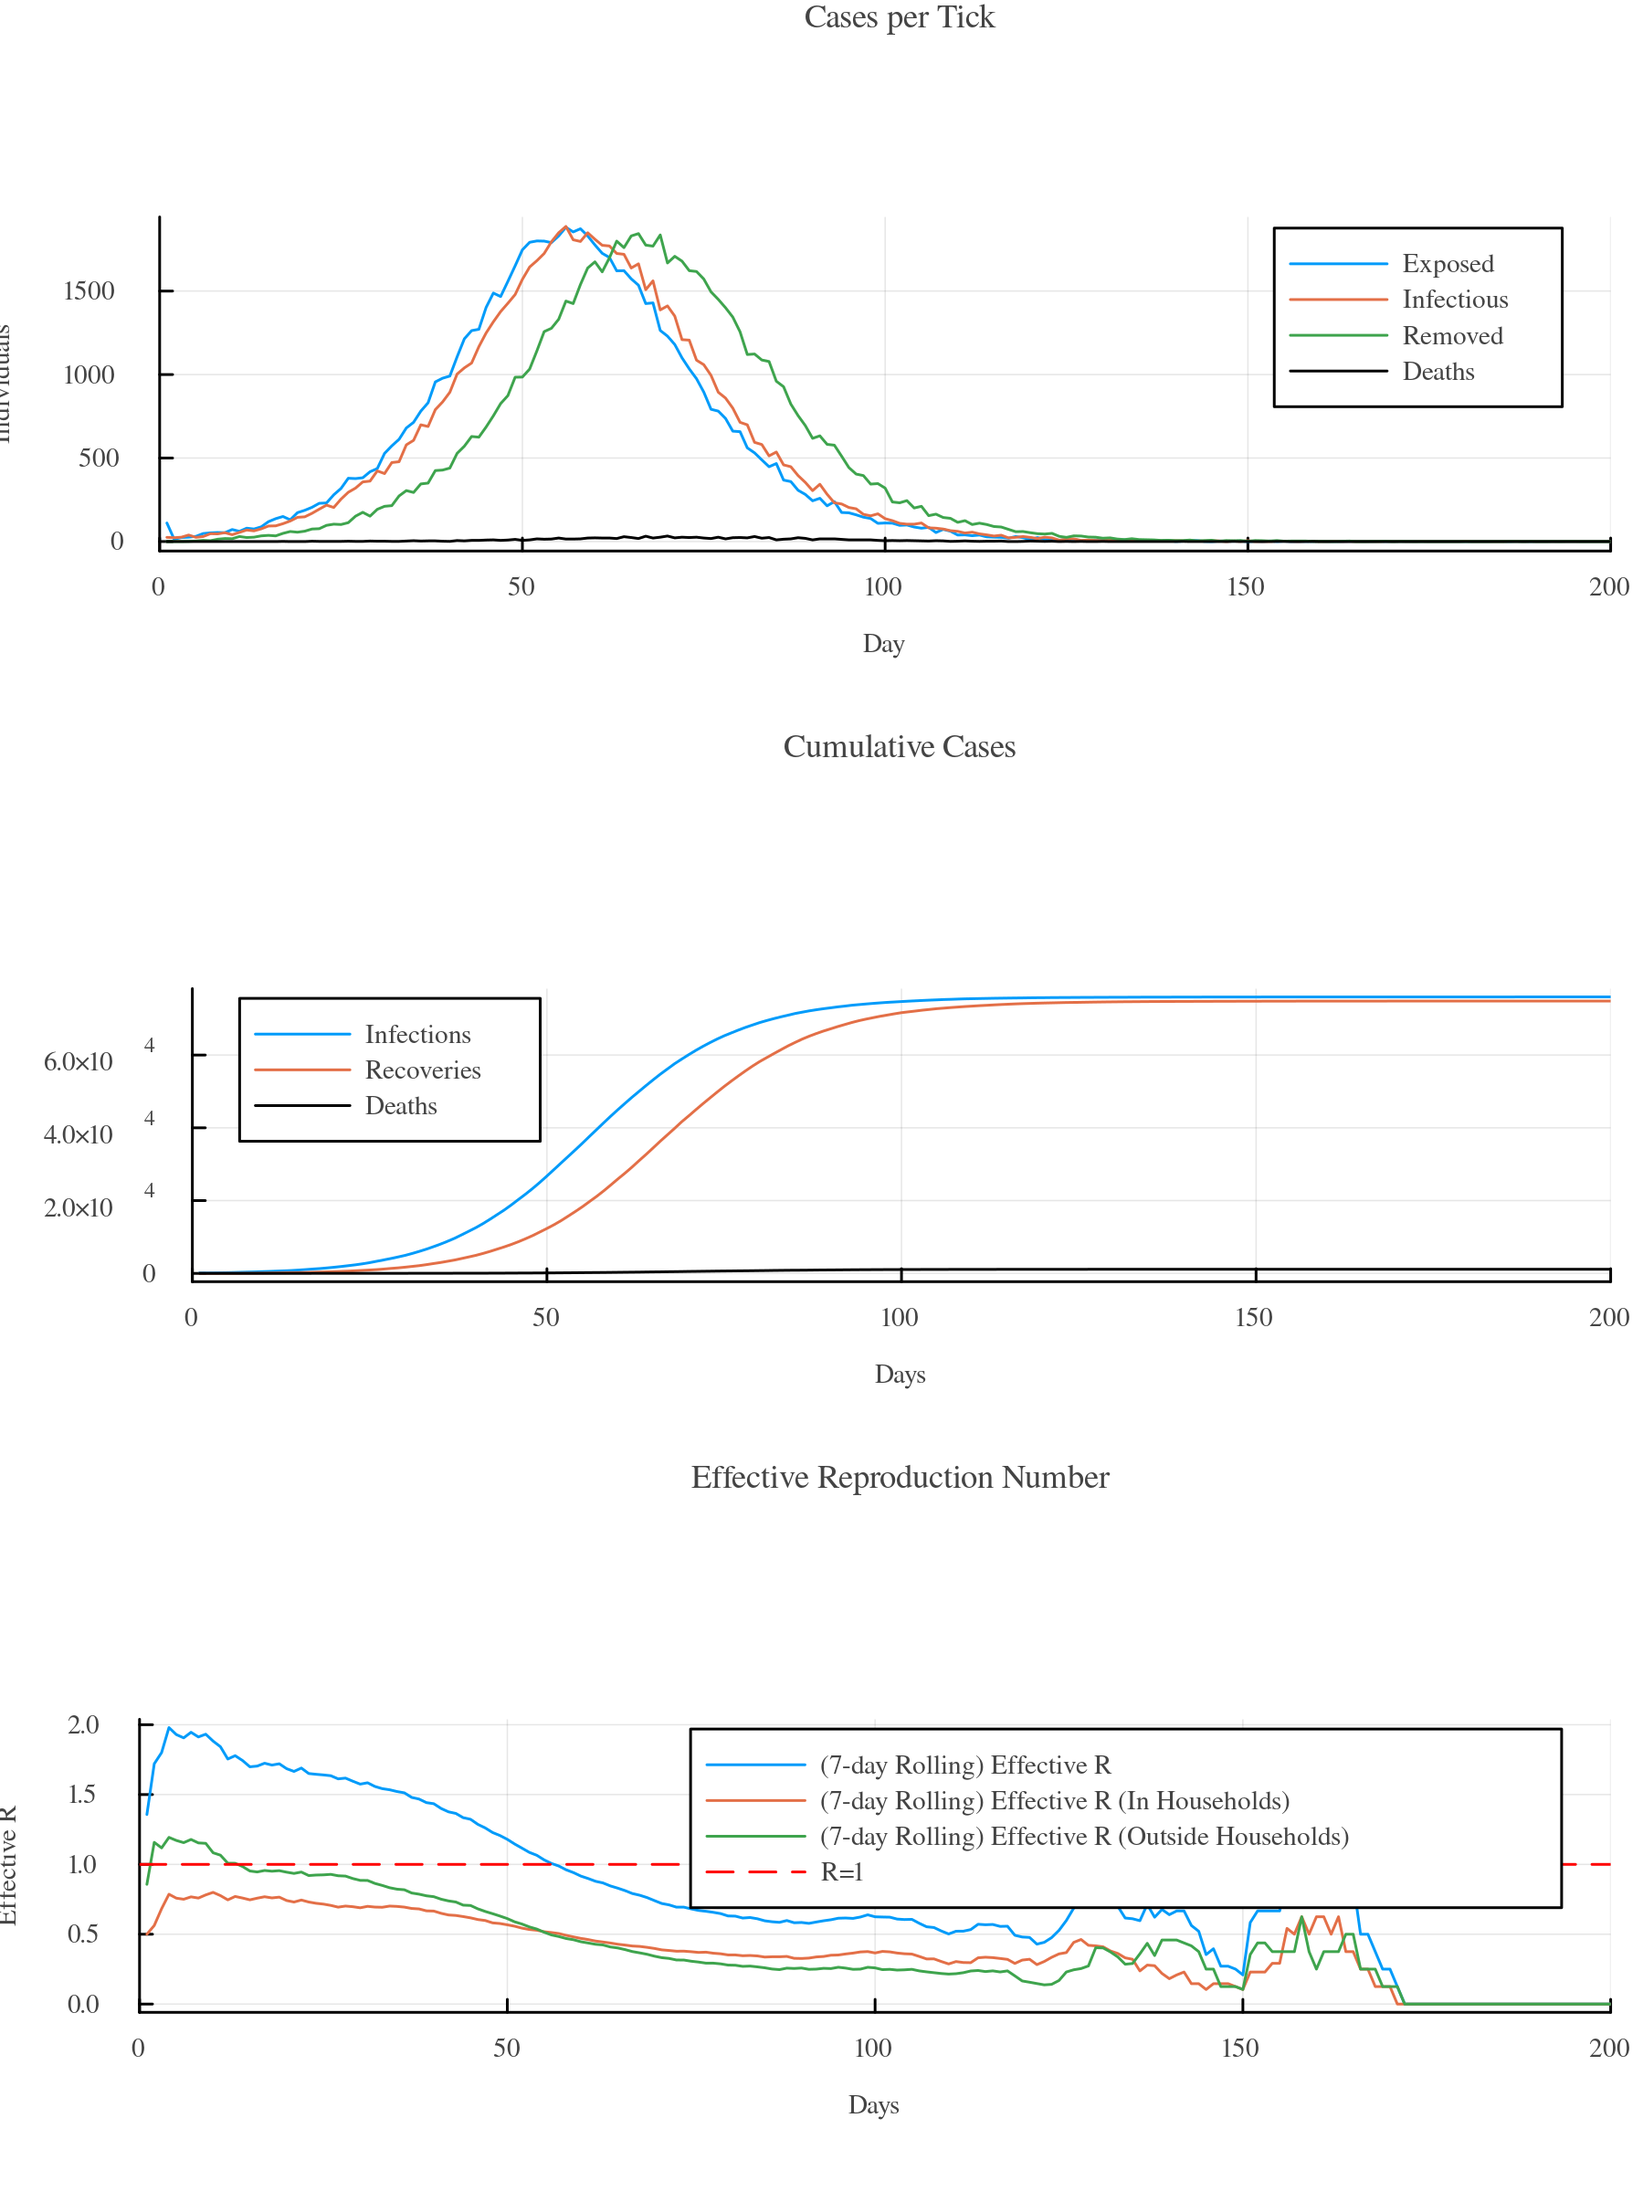
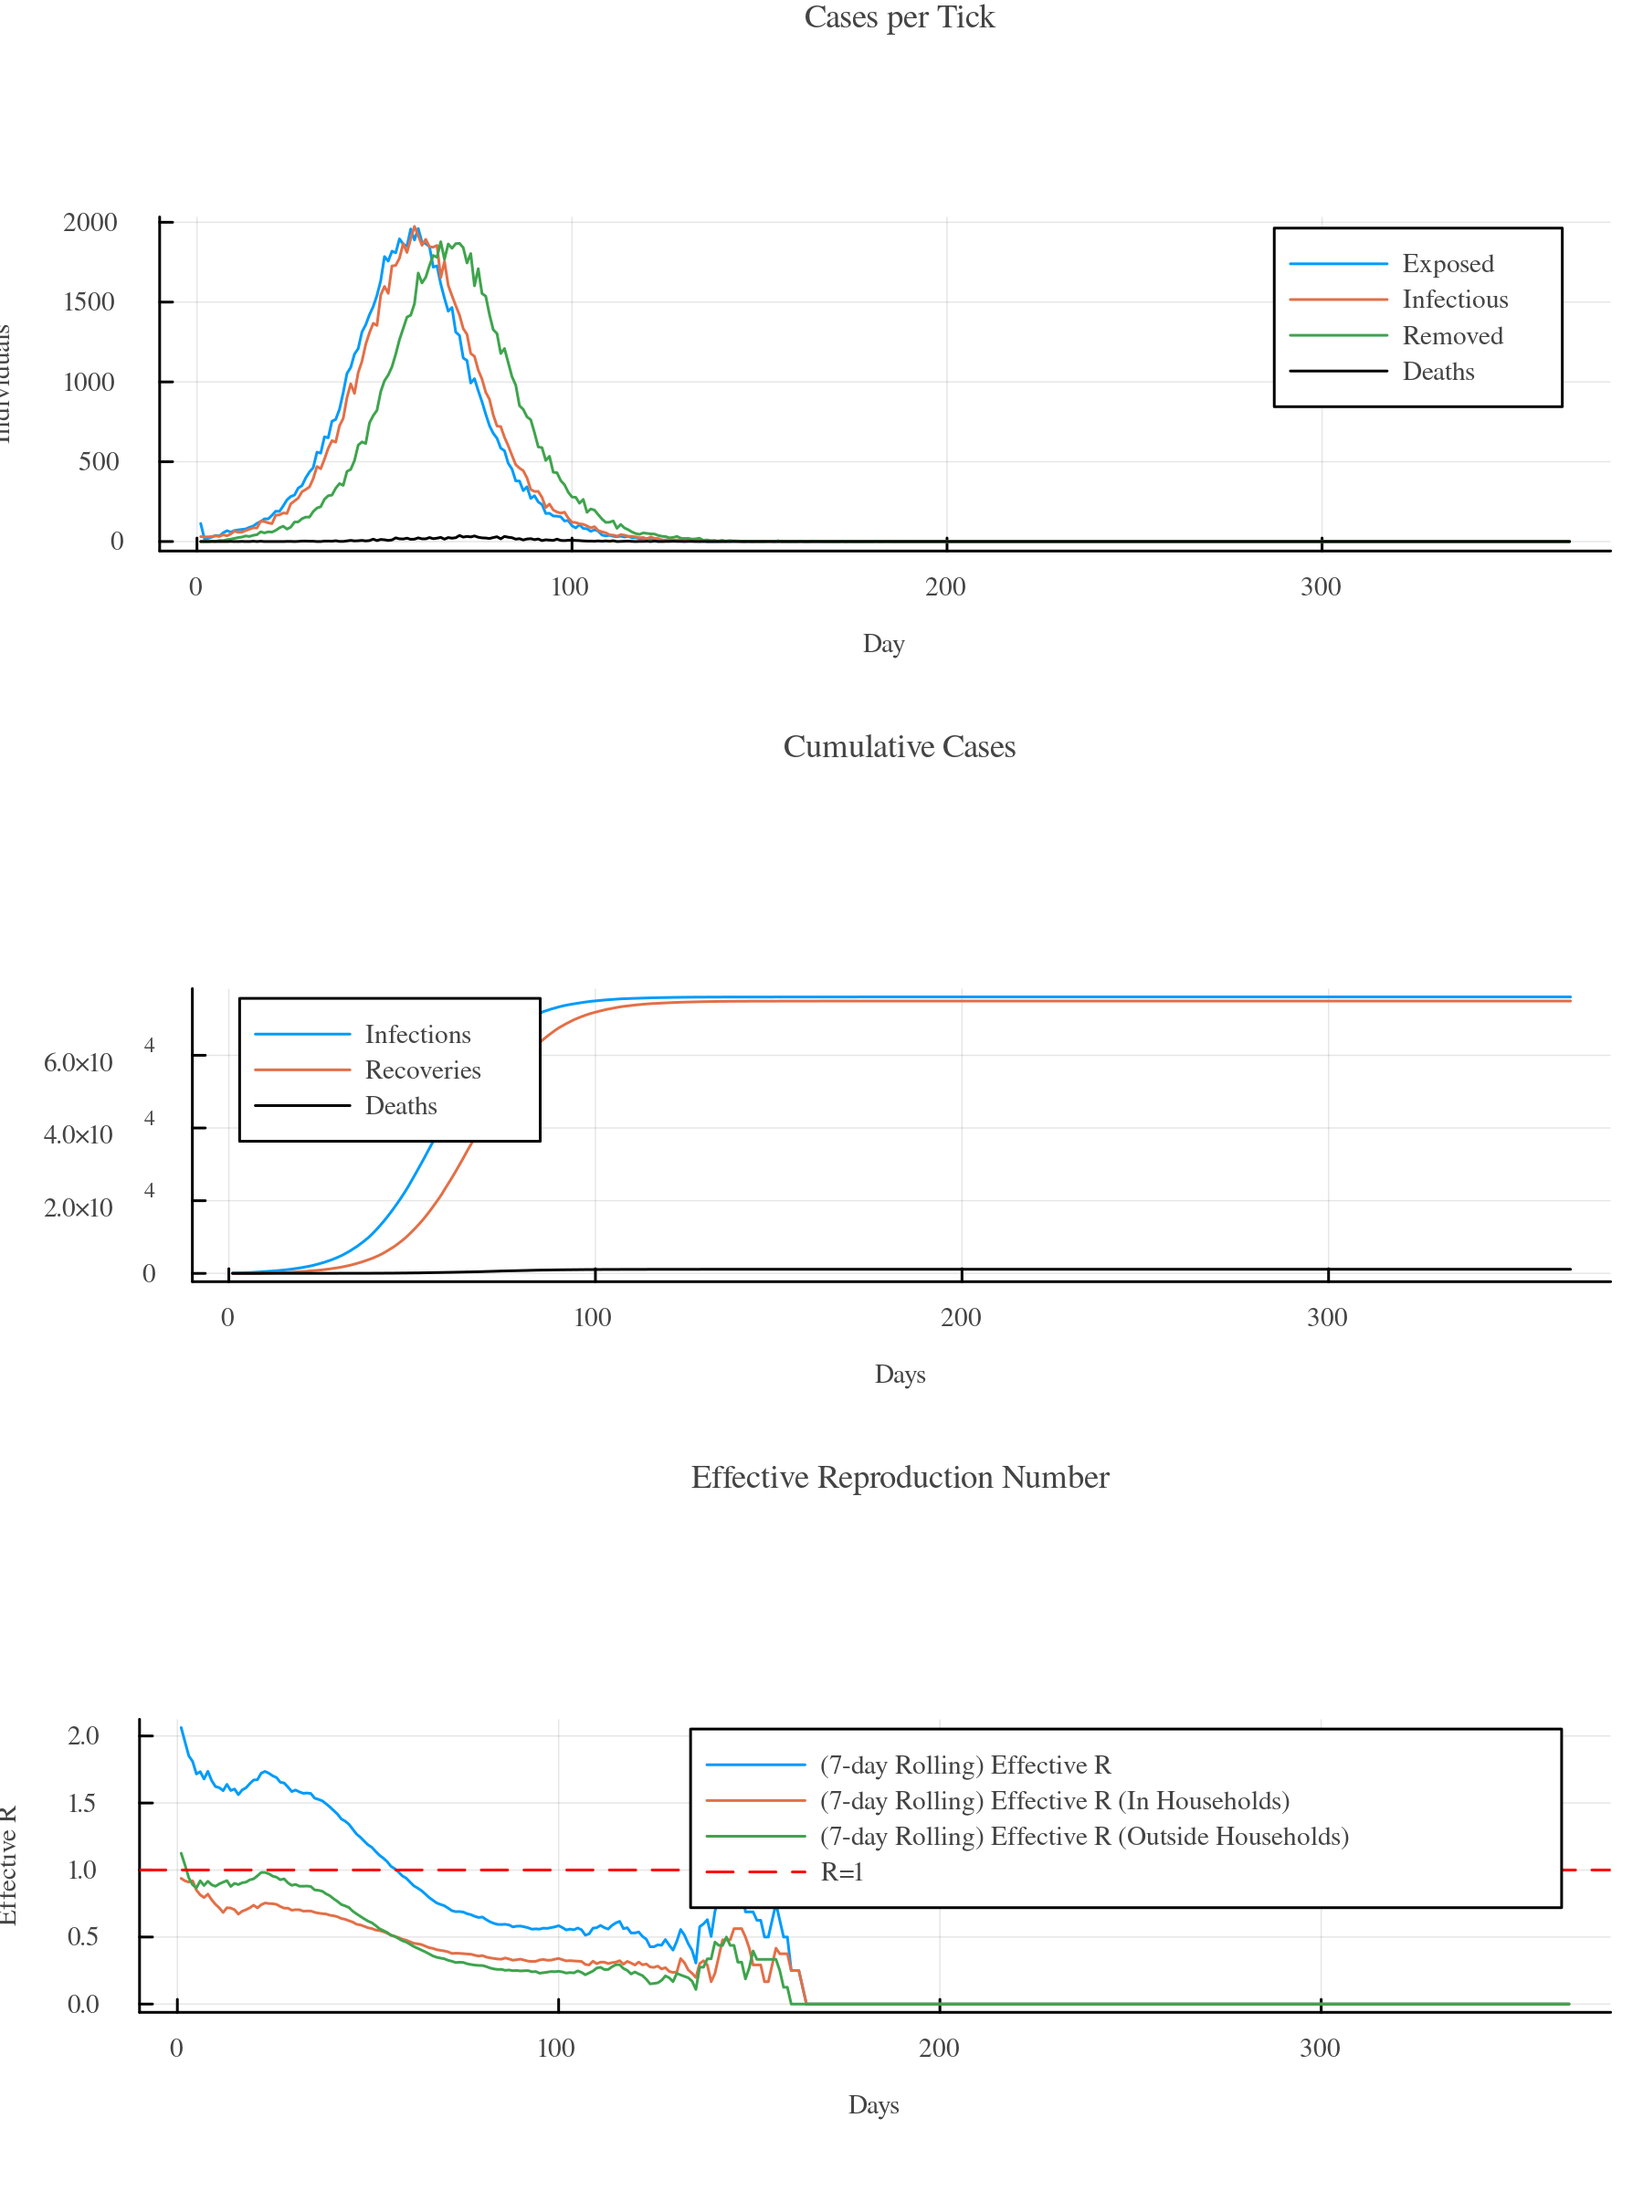
console output and plots in getting started tutorials

diff --git a/docs/src/tut_gettingstarted.md b/docs/src/tut_gettingstarted.md
@@ -31,9 +31,19 @@ rd = ResultData(sim)
 gemsplot(rd)
 ```
 
-!!! warning "TODO: PUT CONSOLE OUTPUT HERE"
+**Output**
+[ Info: 12:09:42 | Initializing Simulation [Simulation 0] with default configuration and one custom parameter.
+[ Info: 12:09:42 | └ Creating population
+[ Info: 12:09:43 | └ Creating simulation object
+[ Info: 12:09:43 | Running Simulation Simulation 0
+100.0%┣██████████████████████████████████████████████████████████████████████████████┫ 365 days/365 days [00:18<00:00, 20 days/s][ Info: 12:10:02 | Processing simulation data
+        12:10:08 | └ Done  
 
-!!! warning "TODO: PUT PLOT HERE AS IMAGE"
+```@raw html
+<p align="center">
+    <img src="../assets/tutorials/tut_gs_hello-world.png" width="80%"/>
+</p>
+``` 
 
 
 ## Changing Parameters
@@ -49,9 +59,18 @@ rd = ResultData(sim)
 gemsplot(rd)
 ```
 
-!!! warning "TODO: PUT CONSOLE OUTPUT HERE"
+[ Info: 12:02:08 | Initializing Simulation [Simulation 1] with default configuration and custom parameters.
+[ Info: 12:02:08 | └ Creating population
+[ Info: 12:02:09 | └ Creating simulation object
+[ Info: 12:02:10 | Running Simulation Simulation 1
+100.0%┣██████████████████████████████████████████████████████████████████████████████┫ 365 days/365 days [00:16<00:00, 23 days/s][ Info: 12:02:26 | Processing simulation data
+        12:02:36 | └ Done   
 
-!!! warning "TODO: PUT PLOT HERE AS IMAGE"
+```@raw html
+<p align="center">
+    <img src="../assets/tutorials/tut_gs_custom-parameters.png" width="80%"/>
+</p>
+``` 
 
 !!! info "Where's the list of parameters I can change?"
     Put a `?` into the Julia REPL and call `help?> Simulation` to get an overview of arguments that you can pass to customize a simulation or look up the Simulation section of the API documentation.
@@ -88,9 +107,26 @@ rd2 = ResultData(sim2)
 gemsplot([rd1, rd2])
 ```
 
-!!! warning "TODO: PUT CONSOLE OUTPUT HERE"
+**Output**
 
-!!! warning "TODO: PUT PLOT HERE AS IMAGE"
+[ Info: 12:11:49 | Initializing Simulation [Baseline] with default configuration and one custom parameter.
+[ Info: 12:11:49 | └ Creating population
+[ Info: 12:11:51 | └ Creating simulation object
+[ Info: 12:11:51 | Initializing Simulation [More Infectious] with default configuration and custom parameters.
+[ Info: 12:11:51 | └ Creating population
+[ Info: 12:11:53 | └ Creating simulation object
+[ Info: 12:11:55 | Running Simulation Baseline
+100.0%┣███████████████████████████████████████████████████████████████████████████████┫ 365 days/365 days [00:40<00:00, 9 days/s][ Info: 12:12:35 | Running Simulation More Infectious
+100.0%┣██████████████████████████████████████████████████████████████████████████████┫ 365 days/365 days [00:35<00:00, 10 days/s][ Info: 12:13:10 | Processing simulation data
+        12:13:15 | └ Done                                                                                                        
+[ Info: 12:13:15 | Processing simulation data
+        12:13:27 | └ Done  
+
+```@raw html
+<p align="center">
+    <img src="../assets/tutorials/tut_gs_comparing-scenarios.png" width="80%"/>
+</p>
+``` 
 
 Pass the `combined = :bylabel` keyword to show the results side-by-side:
 
@@ -98,7 +134,11 @@ Pass the `combined = :bylabel` keyword to show the results side-by-side:
 gemsplot([rd1, rd2], combined = :bylabel)
 ```
 
-!!! warning "TODO: PUT PLOT HERE AS IMAGE"
+```@raw html
+<p align="center">
+    <img src="../assets/tutorials/tut_gs_comparing-scenarios-combined.png" width="80%"/>
+</p>
+``` 
 
 
 ## Getting the Raw Data
